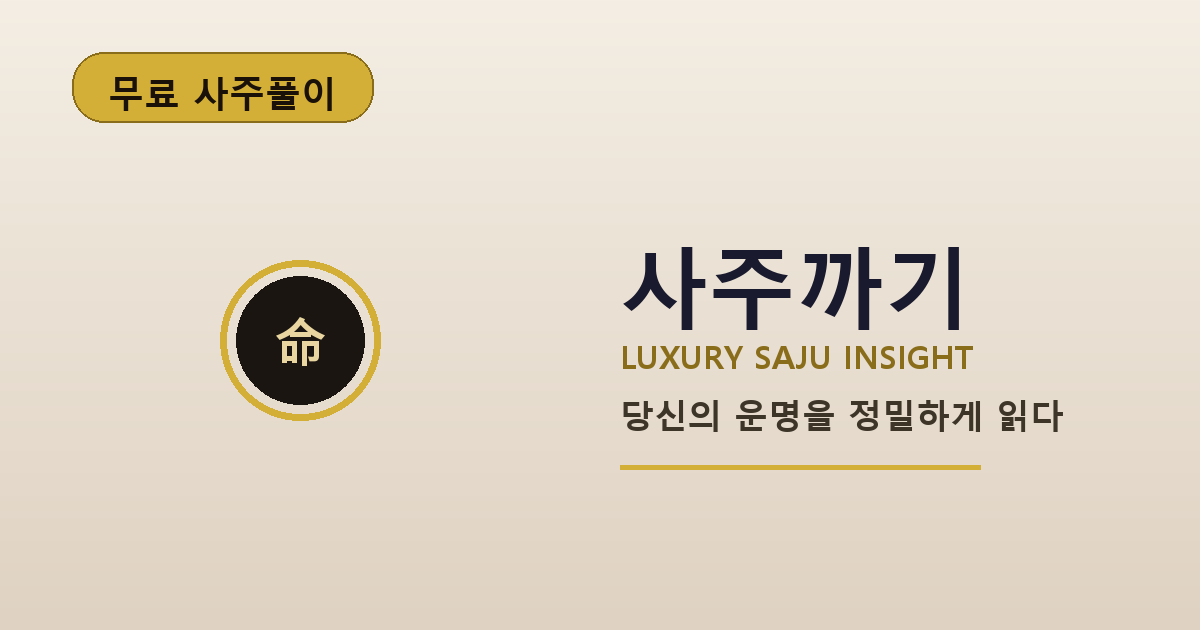
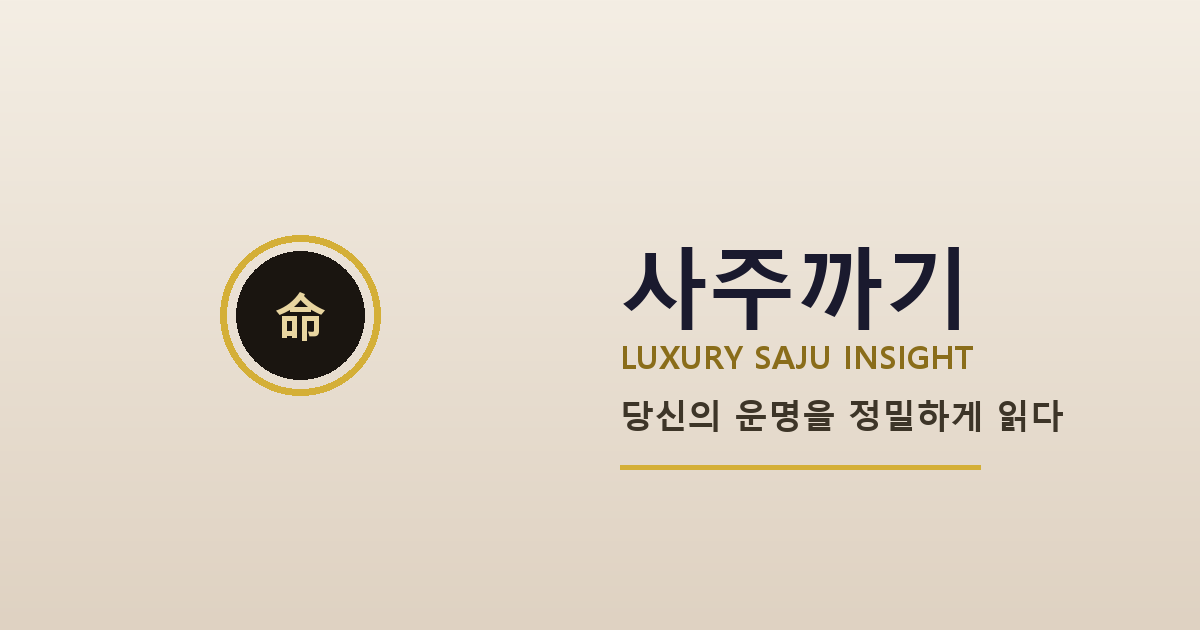
24절기 복구, 공유 배너 뱃지 제거

Changed region(s): [[0.185, 0.3619, 0.3392, 0.6635], [0.0617, 0.0603, 0.3392, 0.2111]]

diff --git a/static/share-preview.html b/static/share-preview.html
@@ -8,14 +8,28 @@
   <meta property="og:site_name" content="사주까기" />
   <meta property="og:title" content="사주까기 · 무료 사주풀이" />
   <meta property="og:description" content="무료 사주풀이 — 사주·궁합·대운·타로·주역·AI 상담" />
+  <meta property="og:url" content="https://sajukkagi-webapp-mmu8ovcnv3sldnnyiani35.streamlit.app/app/static/share-preview.html" />
   <meta property="og:image" content="https://raw.githubusercontent.com/dgim9578-dot/sajukkagi-webapp/main/static/og-share.png" />
+  <meta property="og:image:secure_url" content="https://raw.githubusercontent.com/dgim9578-dot/sajukkagi-webapp/main/static/og-share.png" />
+  <meta property="og:image:type" content="image/png" />
   <meta property="og:image:width" content="1200" />
   <meta property="og:image:height" content="630" />
-  <meta property="og:image:alt" content="사주까기 — 무료 사주풀이" />
+  <meta property="og:image:alt" content="사주까기 — LUXURY SAJU INSIGHT" />
   <meta name="twitter:card" content="summary_large_image" />
-  <meta http-equiv="refresh" content="0;url=https://sajukkagi-webapp-mmu8ovcnv3sldnnyiani35.streamlit.app/" />
+  <meta name="twitter:image" content="https://raw.githubusercontent.com/dgim9578-dot/sajukkagi-webapp/main/static/og-share.png" />
+  <style>
+    body { font-family: "Malgun Gothic", sans-serif; margin: 0; background: #faf8f3; color: #1a1a2e; }
+    main { max-width: 720px; margin: 0 auto; padding: 1.5rem 1rem 2rem; text-align: center; }
+    img { width: 100%; max-width: 640px; border-radius: 12px; box-shadow: 0 8px 28px rgba(0,0,0,.12); }
+    a.btn { display: inline-block; margin-top: 1.25rem; padding: 0.85rem 1.4rem; background: #d4af37; color: #1a1208; font-weight: 800; text-decoration: none; border-radius: 12px; }
+  </style>
 </head>
 <body>
-  <p><a href="https://sajukkagi-webapp-mmu8ovcnv3sldnnyiani35.streamlit.app/">사주까기 앱으로 이동</a></p>
+  <main>
+    <h1>사주까기 · 무료 사주풀이</h1>
+    <p>카카오톡 링크 미리보기용 페이지입니다.</p>
+    <img src="https://raw.githubusercontent.com/dgim9578-dot/sajukkagi-webapp/main/static/og-share.png" width="640" height="336" alt="사주까기 배너" />
+    <p><a class="btn" href="https://sajukkagi-webapp-mmu8ovcnv3sldnnyiani35.streamlit.app/">앱으로 이동</a></p>
+  </main>
 </body>
 </html>

diff --git a/saju/ui/step_01.py b/saju/ui/step_01.py
@@ -1,11 +1,13 @@
-"""STEP 1 — 랜딩 / 메인 화면 (히어로·CTA). 하단 이동은 라우터 전역 바를 사용합니다."""
+"""STEP 1 — 랜딩 / 메인 화면 (히어로·24절기·CTA). 하단 이동은 라우터 전역 바를 사용합니다."""
 
 from __future__ import annotations
 
 import streamlit as st
+import streamlit.components.v1 as components
 
 from saju_app.ui import components as M
 from saju_app.ui import revisit_auth as Revisit
+from saju_app.ui import solar_terms_24 as ST24
 from saju_app.ui import webapp_launch as W
 
 
@@ -105,6 +107,13 @@ def render() -> None:
     with st.container(key="saju_landing_stack"):
         with st.container(key="saju_landing_hero"):
             st.markdown(_hero_html(), unsafe_allow_html=True)
+
+        with st.container(key="step1_solar24"):
+            components.html(
+                ST24.solar_term_frame_html(),
+                height=700,
+                scrolling=True,
+            )
 
         Revisit.render_revisit_home_header()
 

diff --git a/scripts/generate_og_share.py b/scripts/generate_og_share.py
@@ -44,18 +44,7 @@ def main() -> int:
         b = int(228 * (1 - t) + 194 * t)
         draw.line([(0, y), (w, y)], fill=(r, g, b))
 
-    # 상단 뱃지: 무료 사주풀이
-    font_badge = _load_font(36)
-    badge_text = "무료 사주풀이"
-    bbox = draw.textbbox((0, 0), badge_text, font=font_badge)
-    tw, th = bbox[2] - bbox[0], bbox[3] - bbox[1]
-    pad_x, pad_y = 36, 18
-    bx1, by1 = 72, 52
-    bx2, by2 = bx1 + tw + pad_x * 2, by1 + th + pad_y * 2
-    draw.rounded_rectangle((bx1, by1, bx2, by2), radius=32, fill="#d4af37", outline="#8a6d1a", width=2)
-    draw.text((bx1 + pad_x, by1 + pad_y - 2), badge_text, fill="#1a1208", font=font_badge)
-
-    cx, cy = 300, 340
+    cx, cy = 300, 315
     draw.ellipse((cx - 80, cy - 80, cx + 80, cy + 80), outline="#d4af37", width=7)
     draw.ellipse((cx - 64, cy - 64, cx + 64, cy + 64), fill="#1a1510")
     font_seal = _load_font(52)

diff --git a/saju/bootstrap.py b/saju/bootstrap.py
@@ -836,11 +836,8 @@ def configure_application() -> None:
         border: 1px solid light-dark(rgba(212, 175, 55, 0.28), rgba(212, 175, 55, 0.18));
     }
     .st-key-step1_solar24 {
-        display: none !important;
-        height: 0 !important;
-        margin: 0 !important;
-        padding: 0 !important;
-        overflow: hidden !important;
+        margin-bottom: 0.25rem;
+        isolation: isolate;
     }
     .saju-step1-deck-outline {
         margin: 0.65rem 0 0.5rem;
